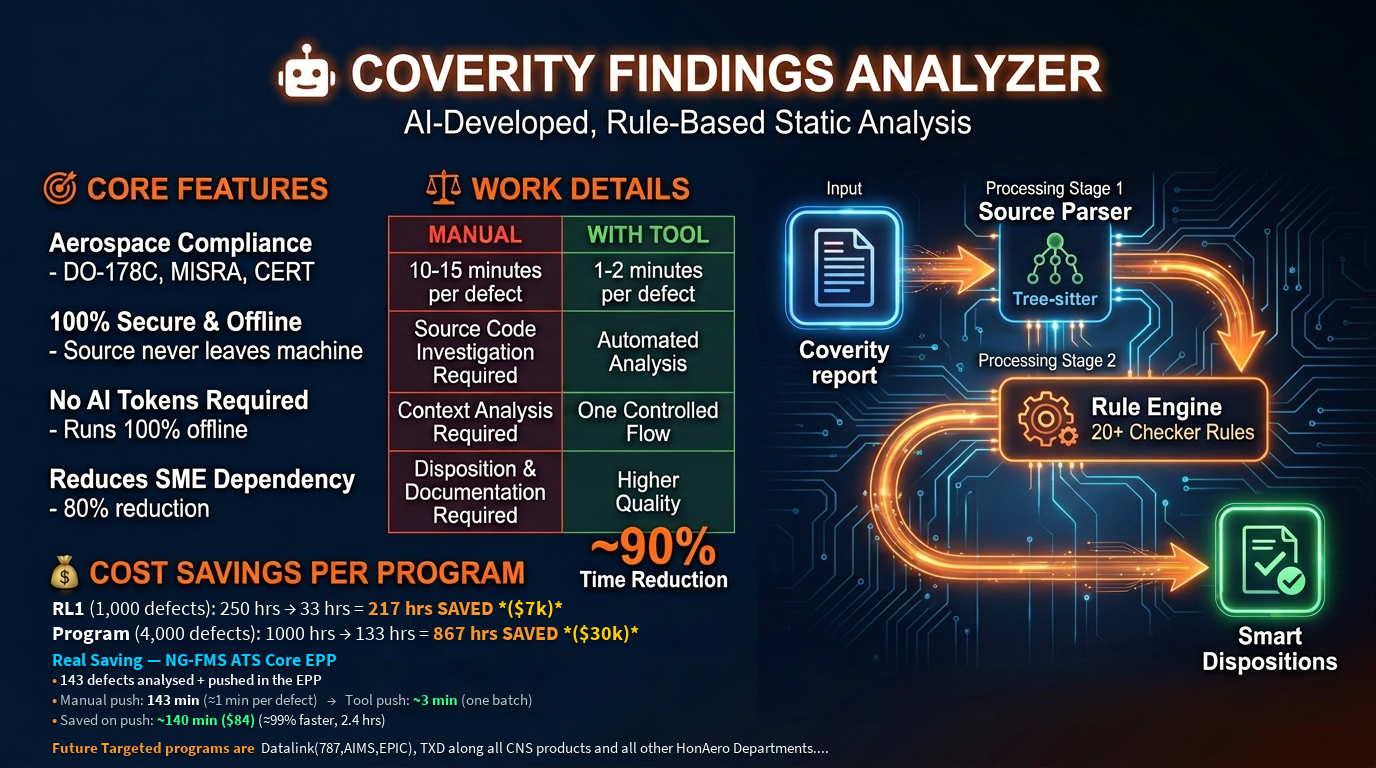
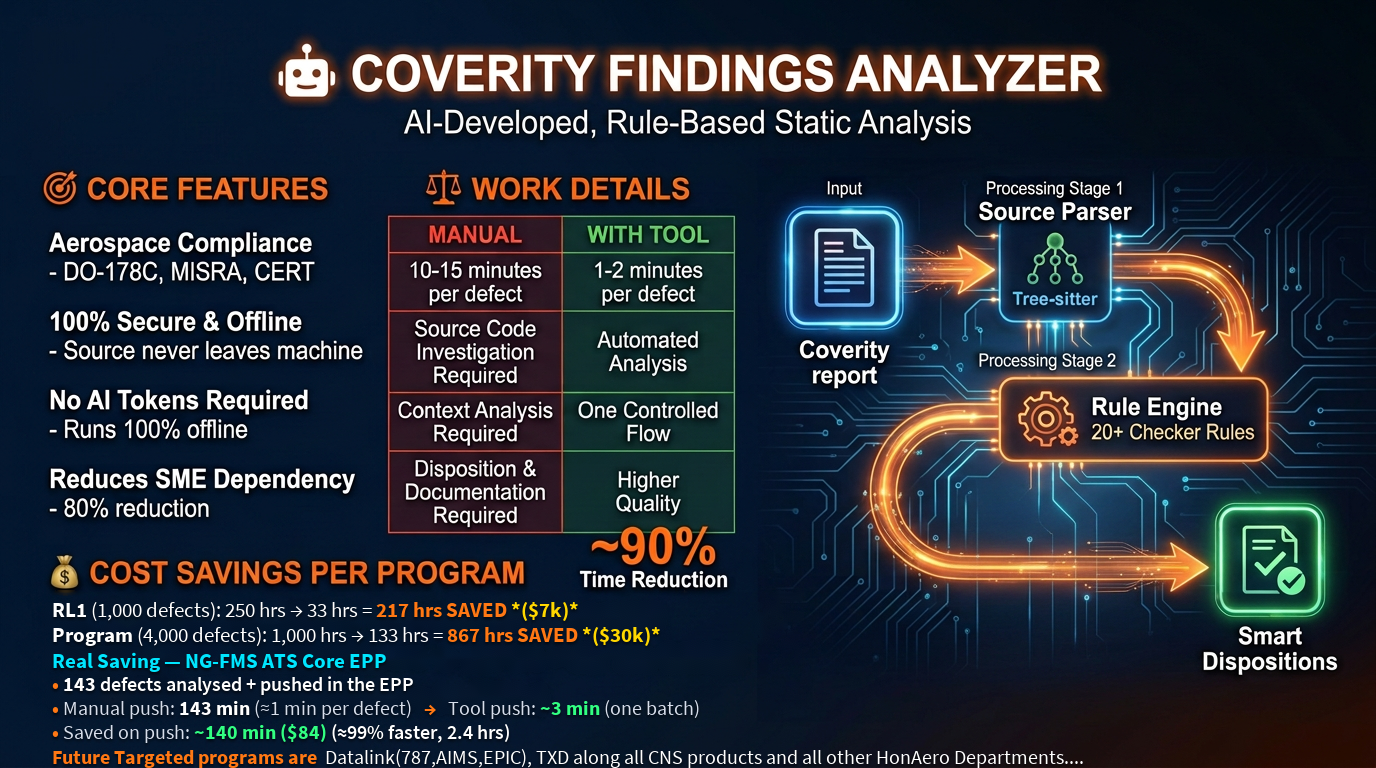
Update slide formatting: increase font size to match deck, balance layout and contrast

Changed region(s): [[0.0312, 0.7812, 0.7812, 1.0]]

diff --git a/update_slide.py b/update_slide.py
@@ -1,21 +1,55 @@
+"""
+Update Coverity_latest_slide.png with requested updates:
+  1. Under COST SAVINGS PER PROGRAM:
+     - Line 1: RL1 (1,000 defects): 250 hrs → 33 hrs = 217 hrs SAVED *($7k)*
+     - Line 2: Program (4,000 defects): 1,000 hrs → 133 hrs = 867 hrs SAVED *($30k)*
+     - Remove Cost: line fully
+  2. Add Real Saving — NG-FMS ATS Core EPP case study:
+     - 143 defects analysed + pushed in the EPP
+     - Manual push: 143 min (≈1 min per defect) → Tool push: ~3 min (one batch)
+     - Saved on push: ~140 min ($84) (≈99% faster, 2.4 hrs)
+  3. Add Future Targeted programs are Datalink(787,AIMS,EPIC), TXD along all CNS products and all other HonAero Departments....
+  4. Ensure font size matches the rest of the slide (size 20-21px, cap height matching existing headers and table text).
+  5. Keep the rest of the image 100% untouched.
+"""
+
 import os
+import subprocess
 import cv2
 import numpy as np
 from PIL import Image, ImageDraw, ImageFont, ImageFilter
 
-def generate_updated_slide(input_path, output_path):
-    assert os.path.exists(input_path), f"Input image {input_path} not found"
-    img_cv = cv2.imread(input_path)
+def get_base_image():
+    """Retrieve pristine base image from commit f41bb9358b5775fb68762bc2110851f7a281e1b3 if available."""
+    try:
+        proc = subprocess.run(
+            ['git', 'show', 'f41bb9358b5775fb68762bc2110851f7a281e1b3:Coverity_latest_slide.png'],
+            stdout=subprocess.PIPE, stderr=subprocess.PIPE, check=True
+        )
+        img_arr = np.frombuffer(proc.stdout, dtype=np.uint8)
+        img = cv2.imdecode(img_arr, cv2.IMREAD_COLOR)
+        if img is not None:
+            return img
+    except Exception as e:
+        print(f"Warning: git show failed ({e}), falling back to disk image")
+
+    if os.path.exists('orig_slide.png'):
+        return cv2.imread('orig_slide.png')
+    return cv2.imread('Coverity_latest_slide.png')
+
+def generate_updated_slide(output_path='Coverity_latest_slide.png'):
+    img_cv = get_base_image()
+    assert img_cv is not None, "Failed to load base image"
     h, w, _ = img_cv.shape
 
-    # 1. Clean background in the modified area (y in [593, 725], x in [45, 755])
-    # The background is a clean, uniform dark navy gradient
-    sub = img_cv[593:725, 45:755]
+    # Clean the modified text region (y in [593, 725], x in [45, 800])
+    # The background is a dark navy-black gradient
+    sub = img_cv[593:725, 45:800]
     bg_color = np.array([47, 23, 4], dtype=float)
     diff = np.linalg.norm(sub.astype(float) - bg_color, axis=2)
     text_mask = diff > 15
     mask = np.zeros(img_cv.shape[:2], dtype=np.uint8)
-    mask[593:725, 45:755] = text_mask.astype(np.uint8) * 255
+    mask[593:725, 45:800] = text_mask.astype(np.uint8) * 255
     k = cv2.getStructuringElement(cv2.MORPH_ELLIPSE, (7, 7))
     mask = cv2.dilate(mask, k)
     clean_bgr = cv2.inpaint(img_cv, mask, 5, cv2.INPAINT_TELEA)
@@ -23,97 +57,97 @@ def generate_updated_slide(input_path, output_path):
     clean_pil = Image.fromarray(cv2.cvtColor(clean_bgr, cv2.COLOR_BGR2RGB))
     W, H = clean_pil.size
 
-    # Font definitions (Source Sans Pro, highly clean and modern, matching Segoe UI metrics)
+    # Font definitions (Source Sans Pro matching modern corporate presentation standards)
     bold_p = '/usr/local/lib/python3.11/dist-packages/font_source_sans_pro/files/SourceSansPro-Bold.ttf'
     reg_p = '/usr/local/lib/python3.11/dist-packages/font_source_sans_pro/files/SourceSansPro-Regular.ttf'
     semi_p = '/usr/local/lib/python3.11/dist-packages/font_source_sans_pro/files/SourceSansPro-Semibold.ttf'
 
-    # Color palette matching the rest of the slide
-    C_WHITE = (249, 251, 252)
-    C_ORANGE = (246, 150, 45)      # Light orange for SAVED and Future Targeted
-    C_YELLOW = (255, 204, 0)       # Accent gold/yellow for cost figures
-    C_GREEN = (51, 255, 136)       # Vibrant green for tool push and savings
-    C_CYAN = (0, 204, 255)         # Cyan glow for Real Saving header
-    C_GRAY = (185, 195, 210)       # Muted gray for labels
-    C_BULLET = (246, 150, 45)      # Orange for bullets
+    # Font instances scaled to match the rest of the slide (cap height 16-18px)
+    f_b21 = ImageFont.truetype(bold_p, 21)
+    f_r21 = ImageFont.truetype(reg_p, 21)
+    f_b20 = ImageFont.truetype(bold_p, 20)
+    f_r20 = ImageFont.truetype(reg_p, 20)
+    f_s20 = ImageFont.truetype(semi_p, 20)
 
-    # Font instances
-    f_prog_b = ImageFont.truetype(bold_p, 20)
-    f_prog_r = ImageFont.truetype(reg_p, 20)
-    f_prog_y = ImageFont.truetype(bold_p, 20)
+    # Color palette
+    C_WHITE = (255, 255, 255)
+    C_WHITE_DIM = (215, 222, 235)
+    C_ORANGE = (255, 120, 20)      # Vivid aerospace orange
+    C_YELLOW = (255, 215, 0)       # Gold yellow for dollar savings
+    C_GREEN = (50, 255, 130)       # Vibrant green for tool speedup & savings
+    C_CYAN = (0, 230, 255)         # Cyan glow for Real Saving header
+    C_BULLET = (255, 120, 20)      # Orange accent bullets
 
-    f_rs_hdr = ImageFont.truetype(bold_p, 18)
-    f_rs_b = ImageFont.truetype(bold_p, 15)
-    f_rs_r = ImageFont.truetype(reg_p, 15)
-    f_rs_s = ImageFont.truetype(semi_p, 15)
-
-    f_fut_b = ImageFont.truetype(bold_p, 15)
-    f_fut_r = ImageFont.truetype(reg_p, 15)
-
-    runs = []
     x = 52
+    runs = []
 
     # ── Line 1: RL1 program savings with *($7k)* ──
-    y1 = 595
-    runs.append((x, y1, 'RL1', f_prog_b, C_WHITE))
-    w = x + f_prog_b.getlength('RL1')
-    runs.append((w, y1, ' (1,000 defects): 250 hrs \u2192 33 hrs = ', f_prog_r, C_WHITE))
-    w += f_prog_r.getlength(' (1,000 defects): 250 hrs \u2192 33 hrs = ')
-    runs.append((w, y1, '217 hrs SAVED ', f_prog_b, C_ORANGE))
-    w += f_prog_b.getlength('217 hrs SAVED ')
-    runs.append((w, y1, '*($7k)*', f_prog_y, C_YELLOW))
+    y1 = 596
+    runs.append((x, y1, 'RL1', f_b21, C_WHITE))
+    w = x + f_b21.getlength('RL1')
+    runs.append((w, y1, ' (1,000 defects): 250 hrs \u2192 33 hrs = ', f_r21, C_WHITE))
+    w += f_r21.getlength(' (1,000 defects): 250 hrs \u2192 33 hrs = ')
+    runs.append((w, y1, '217 hrs SAVED ', f_b21, C_ORANGE))
+    w += f_b21.getlength('217 hrs SAVED ')
+    runs.append((w, y1, '*($7k)*', f_b21, C_YELLOW))
 
     # ── Line 2: Program savings with *($30k)* ──
-    y2 = 620
-    runs.append((x, y2, 'Program', f_prog_b, C_WHITE))
-    w = x + f_prog_b.getlength('Program')
-    runs.append((w, y2, ' (4,000 defects): 1000 hrs \u2192 133 hrs = ', f_prog_r, C_WHITE))
-    w += f_prog_r.getlength(' (4,000 defects): 1000 hrs \u2192 133 hrs = ')
-    runs.append((w, y2, '867 hrs SAVED ', f_prog_b, C_ORANGE))
-    w += f_prog_b.getlength('867 hrs SAVED ')
-    runs.append((w, y2, '*($30k)*', f_prog_y, C_YELLOW))
+    y2 = 621
+    runs.append((x, y2, 'Program', f_b21, C_WHITE))
+    w = x + f_b21.getlength('Program')
+    runs.append((w, y2, ' (4,000 defects): 1,000 hrs \u2192 133 hrs = ', f_r21, C_WHITE))
+    w += f_r21.getlength(' (4,000 defects): 1,000 hrs \u2192 133 hrs = ')
+    runs.append((w, y2, '867 hrs SAVED ', f_b21, C_ORANGE))
+    w += f_b21.getlength('867 hrs SAVED ')
+    runs.append((w, y2, '*($30k)*', f_b21, C_YELLOW))
 
     # ── Line 3: Real Saving Header ──
-    y3 = 648
-    runs.append((x, y3, 'Real Saving \u2014 NG-FMS ATS Core EPP', f_rs_hdr, C_CYAN))
+    y3 = 647
+    runs.append((x, y3, 'Real Saving \u2014 NG-FMS ATS Core EPP', f_b21, C_CYAN))
 
     # ── Line 4: 143 defects analysed + pushed in the EPP ──
-    y4 = 670
-    runs.append((x, y4, '\u2022 ', f_rs_b, C_BULLET))
-    w = x + f_rs_b.getlength('\u2022 ')
-    runs.append((w, y4, '143 defects analysed + pushed in the EPP', f_rs_s, C_WHITE))
+    y4 = 671
+    runs.append((x, y4, '\u2022 ', f_b20, C_BULLET))
+    w = x + f_b20.getlength('\u2022 ')
+    runs.append((w, y4, '143', f_b20, C_WHITE))
+    w += f_b20.getlength('143')
+    runs.append((w, y4, ' defects analysed + pushed in the EPP', f_s20, C_WHITE))
 
     # ── Line 5: Manual push vs Tool push ──
-    y5 = 690
-    runs.append((x, y5, '\u2022 ', f_rs_b, C_BULLET))
-    w = x + f_rs_b.getlength('\u2022 ')
-    runs.append((w, y5, 'Manual push: ', f_rs_r, C_GRAY))
-    w += f_rs_r.getlength('Manual push: ')
-    runs.append((w, y5, '143 min ', f_rs_b, C_WHITE))
-    w += f_rs_b.getlength('143 min ')
-    runs.append((w, y5, '(\u22481 min per defect)   \u2192   Tool push: ', f_rs_r, C_GRAY))
-    w += f_rs_r.getlength('(\u22481 min per defect)   \u2192   Tool push: ')
-    runs.append((w, y5, '~3 min ', f_rs_b, C_GREEN))
-    w += f_rs_b.getlength('~3 min ')
-    runs.append((w, y5, '(one batch)', f_rs_r, C_GRAY))
+    y5 = 695
+    runs.append((x, y4 := y5, '\u2022 ', f_b20, C_BULLET))
+    w = x + f_b20.getlength('\u2022 ')
+    runs.append((w, y5, 'Manual push: ', f_r20, C_WHITE_DIM))
+    w += f_r20.getlength('Manual push: ')
+    runs.append((w, y5, '143 min ', f_b20, C_WHITE))
+    w += f_b20.getlength('143 min ')
+    runs.append((w, y5, '(\u22481 min per defect)   ', f_r20, C_WHITE_DIM))
+    w += f_r20.getlength('(\u22481 min per defect)   ')
+    runs.append((w, y5, '\u2192   ', f_b20, C_ORANGE))
+    w += f_b20.getlength('\u2192   ')
+    runs.append((w, y5, 'Tool push: ', f_r20, C_WHITE_DIM))
+    w += f_r20.getlength('Tool push: ')
+    runs.append((w, y5, '~3 min ', f_b20, C_GREEN))
+    w += f_b20.getlength('~3 min ')
+    runs.append((w, y5, '(one batch)', f_r20, C_WHITE_DIM))
 
     # ── Line 6: Saved on push ──
-    y6 = 710
-    runs.append((x, y6, '\u2022 ', f_rs_b, C_BULLET))
-    w = x + f_rs_b.getlength('\u2022 ')
-    runs.append((w, y6, 'Saved on push: ', f_rs_r, C_GRAY))
-    w += f_rs_r.getlength('Saved on push: ')
-    runs.append((w, y6, '~140 min ($84) ', f_rs_b, C_GREEN))
-    w += f_rs_b.getlength('~140 min ($84) ')
-    runs.append((w, y6, '(\u224899% faster, 2.4 hrs)', f_rs_r, C_WHITE))
+    y6 = 719
+    runs.append((x, y6, '\u2022 ', f_b20, C_BULLET))
+    w = x + f_b20.getlength('\u2022 ')
+    runs.append((w, y6, 'Saved on push: ', f_r20, C_WHITE_DIM))
+    w += f_r20.getlength('Saved on push: ')
+    runs.append((w, y6, '~140 min ($84) ', f_b20, C_GREEN))
+    w += f_b20.getlength('~140 min ($84) ')
+    runs.append((w, y6, '(\u224899% faster, 2.4 hrs)', f_s20, C_WHITE))
 
     # ── Line 7: Future Targeted programs ──
-    y7 = 738
-    runs.append((x, y7, 'Future Targeted programs are  ', f_fut_b, C_ORANGE))
-    w = x + f_fut_b.getlength('Future Targeted programs are  ')
-    runs.append((w, y7, 'Datalink(787,AIMS,EPIC), TXD along all CNS products and all other HonAero Departments....', f_fut_r, C_WHITE))
+    y7 = 744
+    runs.append((x, y7, 'Future Targeted programs are  ', f_b20, C_ORANGE))
+    w = x + f_b20.getlength('Future Targeted programs are  ')
+    runs.append((w, y7, 'Datalink(787,AIMS,EPIC), TXD along all CNS products and all other HonAero Departments....', f_r20, C_WHITE))
 
-    # Composition with soft drop shadow
+    # Layered rendering: background -> soft shadow -> sharp text
     canvas = Image.new('RGBA', (W, H), (0, 0, 0, 0))
     canvas.paste(clean_pil.convert('RGBA'), (0, 0))
 
@@ -122,11 +156,10 @@ def generate_updated_slide(input_path, output_path):
     d_sh = ImageDraw.Draw(shadow_layer)
     for rx, ry, text, font, _ in runs:
         d_sh.text((rx, ry), text, font=font, fill=255)
-
     shadow_blurred = shadow_layer.filter(ImageFilter.GaussianBlur(1.5))
-    blk = Image.new('RGBA', (W, H), (0, 0, 0, 0))
-    blk.putalpha(shadow_blurred.point(lambda v: int(v * 0.55)))
 
+    blk = Image.new('RGBA', (W, H), (0, 0, 0, 0))
+    blk.putalpha(shadow_blurred.point(lambda v: int(v * 0.75)))
     sh_shifted = Image.new('RGBA', (W, H), (0, 0, 0, 0))
     sh_shifted.paste(blk, (0, 2))
     canvas = Image.alpha_composite(canvas, sh_shifted)
@@ -136,11 +169,11 @@ def generate_updated_slide(input_path, output_path):
     d_txt = ImageDraw.Draw(txt_layer)
     for rx, ry, text, font, color in runs:
         d_txt.text((rx, ry), text, font=font, fill=(*color, 255))
-
     canvas = Image.alpha_composite(canvas, txt_layer)
+
     final_img = canvas.convert('RGB')
     final_img.save(output_path, 'PNG')
-    print(f"Successfully saved updated slide to {output_path}")
+    print(f"Successfully generated updated slide at {output_path}")
 
 if __name__ == '__main__':
-    generate_updated_slide('Coverity_latest_slide.png', 'Coverity_latest_slide.png')
+    generate_updated_slide('Coverity_latest_slide.png')

diff --git a/build_slide.py b/build_slide.py
@@ -204,34 +204,34 @@ cost_items = [
     ("RL1 (1,000 defects): 250 hrs → 33 hrs = ", "217 hrs SAVED ", "*($7k)*"),
     ("Program (4,000 defects): 1,000 hrs → 133 hrs = ", "867 hrs SAVED ", "*($30k)*"),
 ]
-y = cost_top + 0.32
+y = cost_top + 0.30
 for prefix, saved, cost in cost_items:
-    add_text(0.5, y, 4.8, 0.25, prefix, font_size=11, color=WHITE)
-    add_text(4.4, y, 1.8, 0.25, saved, font_size=11, color=ORANGE, bold=True)
-    add_text(5.6, y, 1.5, 0.25, cost, font_size=11, color=YELLOW, bold=True)
-    y += 0.25
+    add_text(0.5, y, 5.0, 0.25, prefix, font_size=12, color=WHITE)
+    add_text(4.8, y, 1.8, 0.25, saved, font_size=12, color=ORANGE, bold=True)
+    add_text(6.1, y, 1.5, 0.25, cost, font_size=12, color=YELLOW, bold=True)
+    y += 0.26
 
 # Real Saving — NG-FMS ATS Core EPP
-add_text(0.5, y + 0.05, 6.5, 0.25, "Real Saving — NG-FMS ATS Core EPP",
+add_text(0.5, y + 0.02, 6.5, 0.25, "Real Saving — NG-FMS ATS Core EPP",
          font_size=12, color=CYAN_GLOW, bold=True)
-y += 0.30
+y += 0.28
 
 add_text(0.5, y, 6.5, 0.22, "• 143 defects analysed + pushed in the EPP",
-         font_size=10, color=WHITE)
-y += 0.22
+         font_size=11, color=WHITE)
+y += 0.24
 
-add_text(0.5, y, 6.5, 0.22, "• Manual push: 143 min (≈1 min per defect)   →   Tool push: ~3 min (one batch)",
-         font_size=10, color=WHITE_DIM)
-y += 0.22
+add_text(0.5, y, 7.5, 0.22, "• Manual push: 143 min (≈1 min per defect)   →   Tool push: ~3 min (one batch)",
+         font_size=11, color=WHITE_DIM)
+y += 0.24
 
 add_text(0.5, y, 6.5, 0.22, "• Saved on push: ~140 min ($84) (≈99% faster, 2.4 hrs)",
-         font_size=10, color=GREEN_LIGHT, bold=True)
+         font_size=11, color=GREEN_LIGHT, bold=True)
 y += 0.28
 
 # Future Targeted programs
 add_text(0.5, y, 12.0, 0.25,
          "Future Targeted programs are  Datalink(787,AIMS,EPIC), TXD along all CNS products and all other HonAero Departments....",
-         font_size=10, color=ORANGE_LIGHT, bold=True)
+         font_size=11, color=ORANGE_LIGHT, bold=True)
 
 # ══════════════════════════════════════════════
 # RIGHT SIDE: FLOW DIAGRAM (Adjusted: Stage 1 -> Stage 2 -> Smart Dispositions)
